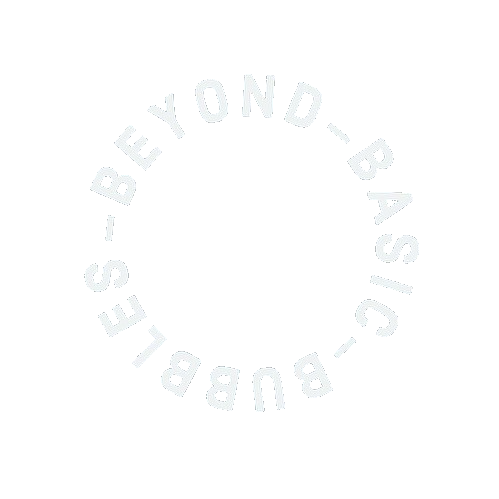
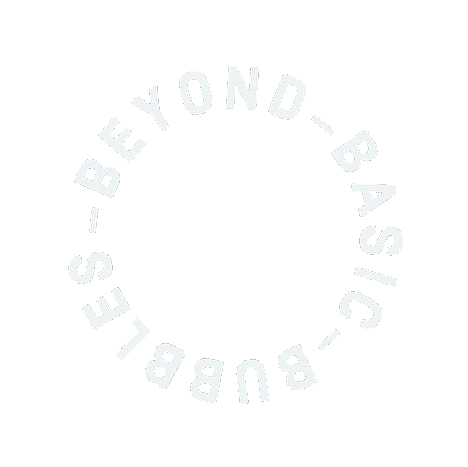
initial

diff --git a/public/style.css b/public/style.css
@@ -244,8 +244,11 @@ body::-webkit-scrollbar-thumb{
     position: absolute;
 }
 .logo-image2{
-    width: 100%;
-    height: 100%;
+    top: 50%;
+    left: 50%;
+    width: 90%;
+    height: 90%;
+    transform: translate(-50%, -50%);
     animation: intro 1s;
     -webkit-animation: intro 1s;
     position: absolute;
@@ -629,7 +632,7 @@ body::-webkit-scrollbar-thumb{
 
 }
 .price{
-    background-color: rgb(85, 201, 255);
+    /* background-color: rgb(85, 201, 255); */
     /* border-radius: 10px; */
     padding-left: 5px;
     padding-right: 5px;
